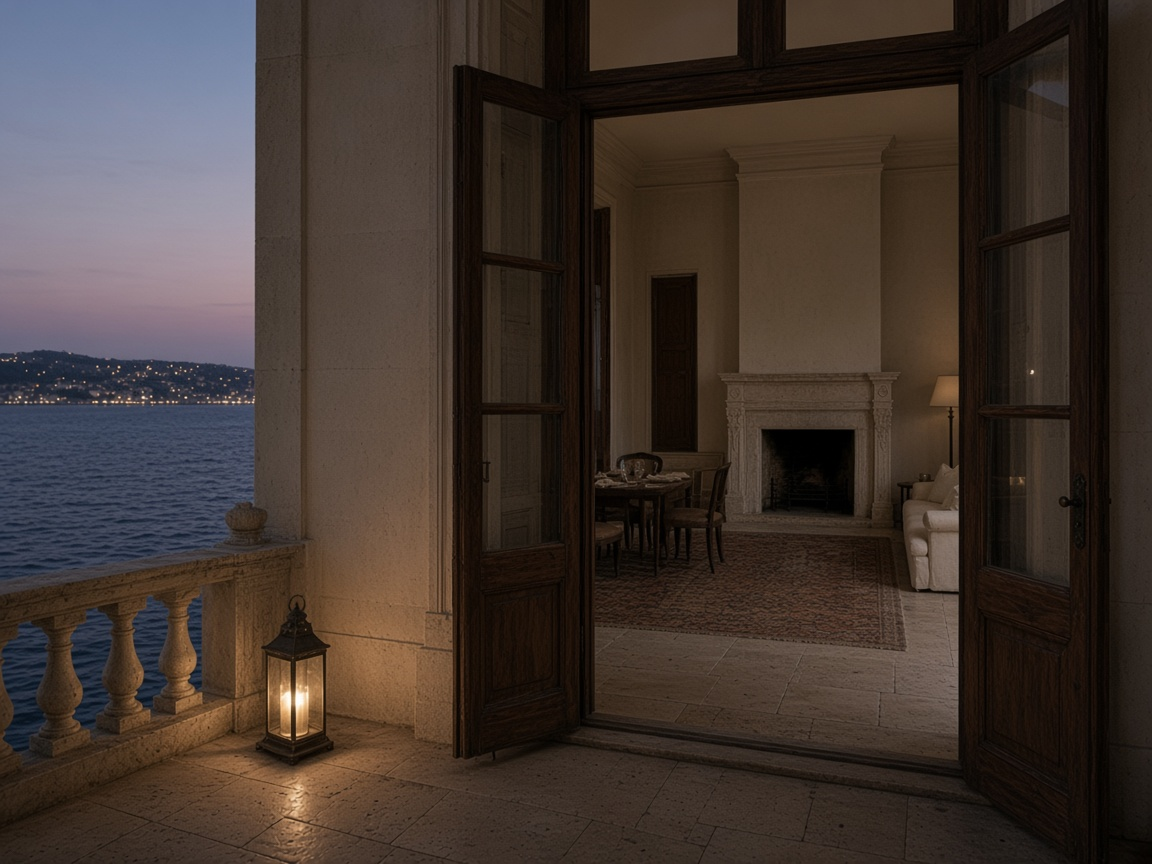
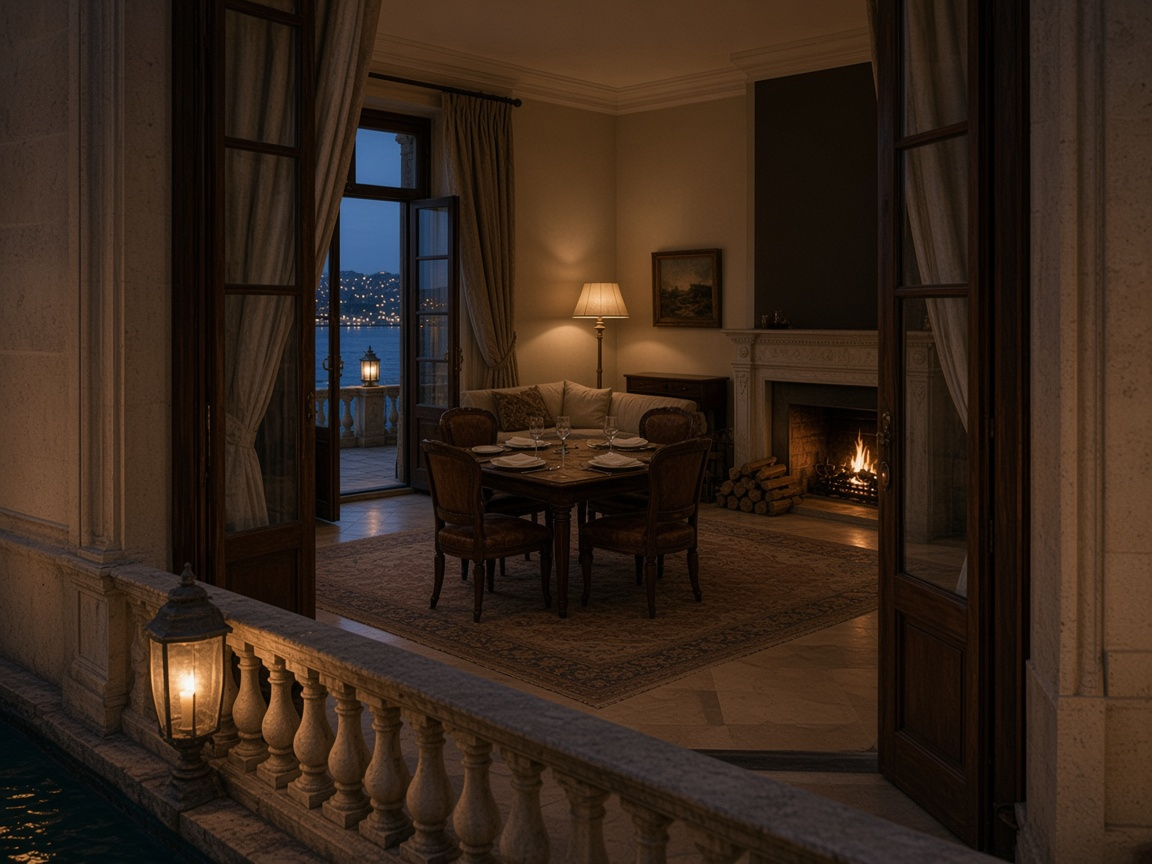
Replace room photographs with original luxury interiors.
Twelve new guest-room stills for Bosfor Hotels: layered hotel bedding,
headboards, bedside lamps, and Istanbul garden or Bosphorus views.
Queen and King stay visually distinct. Alt text updated to match.

diff --git a/src/lib/rooms.ts b/src/lib/rooms.ts
@@ -50,8 +50,8 @@ export const rooms: Room[] = [
       "Wireless internet",
     ],
     images: photos("standard", [
-      "Compact garden bedroom with a double bed in cream linen, limewashed plaster, a brass lamp, and a sash window onto a fig tree and stone path.",
-      "The same garden room from the writing desk, looking toward the sash window, boxwood, and a corner of the double bed.",
+      "Compact garden bedroom with a tufted walnut headboard, cream hotel bedding, brass bedside lamps, and a sash window onto fig leaves and a stone path.",
+      "The same garden room from the writing desk, looking toward the sash window, boxwood, a bath doorway, and the double bed.",
     ]),
   },
   {
@@ -74,8 +74,8 @@ export const rooms: Room[] = [
       "Wireless internet",
     ],
     images: photos("queen", [
-      "Queen bedroom with rumpled oatmeal linen, sage curtains, a walnut writing desk, and casement windows looking along Bebek bay in afternoon light.",
-      "The same Queen room from the foot of the bed, looking toward the desk, cane chair, and bay windows with wooden houses and fishing boats.",
+      "Queen bedroom with a tall sand headboard, oatmeal linen, sage curtains, ceramic lamps, a walnut writing desk, and casement windows along Bebek bay in afternoon light.",
+      "The same Queen room from the writing desk, looking toward the tall headboard, cane chair, and bay windows with wooden houses and fishing boats.",
     ]),
   },
   {
@@ -98,8 +98,8 @@ export const rooms: Room[] = [
       "Wireless internet",
     ],
     images: photos("king", [
-      "Wide king bedroom with grey linen, an Iznik blue tile dado, and French doors open onto a balcony over the Bosphorus at morning, a ferry on the water.",
-      "The same King room seen from the balcony, looking in past a wrought-iron rail to the grey king bed, Iznik tiles, and a brass wall sconce.",
+      "Wide king bedroom with a charcoal velvet headboard, grey linen, an Iznik blue tile dado, a leather armchair, and French doors onto a Bosphorus balcony at morning, a ferry on the water.",
+      "The same King room seen from the balcony, looking in past a wrought-iron rail to the grey king bed, Iznik tiles, and leather chair.",
     ]),
   },
   {
@@ -124,8 +124,8 @@ export const rooms: Room[] = [
       "Wireless internet",
     ],
     images: photos("deluxe", [
-      "Deluxe bedroom with an ivory king bed, two cream armchairs, a marble table, and walnut shutters open to a wide balcony at Bosphorus sunset.",
-      "The same Deluxe lounge: two armchairs and a copper pot on marble, looking out through open shutters to the strait at sunset, the bed just in frame.",
+      "Deluxe bedroom with an ivory king bed, a walnut headboard, two cream armchairs, a marble table, and walnut shutters open to a wide balcony at Bosphorus sunset.",
+      "The same Deluxe lounge: two armchairs and a copper pot on marble, looking out through open shutters to the strait at sunset, the bed at the left edge.",
     ]),
   },
   {
@@ -151,8 +151,8 @@ export const rooms: Room[] = [
       "Wireless internet",
     ],
     images: photos("suite", [
-      "Evening sitting room with a cream sofa, a round tea table, and a carved walnut doorway into a separate bedroom above the Bosphorus.",
-      "The Suite bedroom at night, looking back through the carved doorway to the sitting room sofa and tea table, with the strait dark outside.",
+      "Evening sitting room with a cream sofa, a round tea table, and a carved walnut doorway into a separate king bedroom above the Bosphorus.",
+      "The Suite bedroom at night, looking back through the carved doorway to the sitting room sofa and tea table, with a marble bath glimpse and the strait dark outside.",
     ]),
   },
   {
@@ -178,7 +178,7 @@ export const rooms: Room[] = [
       "Wireless internet",
     ],
     images: photos("presidential", [
-      "Bosfor Suite sitting room at dusk: pale limestone fireplace, a dining table, a cream sofa, and terrace doors open to the Bosphorus.",
+      "Bosfor Suite sitting room at dusk: pale limestone fireplace, a dining table for four, a cream sofa, and terrace doors open to the Bosphorus.",
       "The private water terrace at dusk, looking back through walnut doors to the fireplace, dining table, and sofa of the Bosfor Suite.",
     ]),
   },
